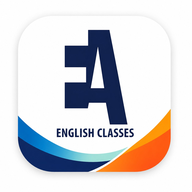
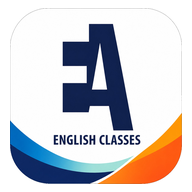
Add files via upload

diff --git a/app-fx.js b/app-fx.js
@@ -1,9 +1,8 @@
-/* EA English Classes — feedback de interação do app (som + vibração + toque) */
+/* EA English Classes — feedback de interação do app (som leve + vibração + toque) */
 (function () {
   'use strict';
 
-  // App/mobile apenas. No DESKTOP (navegador largo) o app-fx fica inerte:
-  // sem som, sem feedback de "press" — o site continua site.
+  // App/mobile apenas. No DESKTOP (navegador largo) fica inerte: sem som.
   var mq = window.matchMedia ? window.matchMedia.bind(window) : null;
   var isApp = (mq && (mq('(display-mode: standalone)').matches || mq('(max-width: 900px)').matches)) || window.navigator.standalone === true;
   if (!isApp) {
@@ -25,99 +24,89 @@
     return window._eaAudio;
   }
 
-  // Reverb curtinho e sutil (impulso sintético) — dá "ar" e qualidade às notas.
-  function reverb(c) {
-    if (c._eaVerb !== undefined) return c._eaVerb;
+  // Master leve e limpo — sem reverb nem compressor pesado.
+  function master(c) {
+    if (c._eaMaster) return c._eaMaster;
+    var g = c.createGain(); g.gain.value = 0.85; g.connect(c.destination);
+    c._eaMaster = g; return g;
+  }
+
+  // ── Amostra de clique (WAV enviado), decodificada uma vez ──
[1 lines of base64/hex data omitted]
+  function b64buf(b64) { var s = atob(b64), n = s.length, u = new Uint8Array(n); for (var i = 0; i < n; i++) u[i] = s.charCodeAt(i); return u.buffer; }
+  function ensureSample() {
+    var c = audio(); if (!c) return;
+    if (window._eaSample || window._eaSampleLoading) return;
+    window._eaSampleLoading = true;
     try {
-      var len = Math.floor(c.sampleRate * 0.5), ir = c.createBuffer(2, len, c.sampleRate);
-      for (var ch = 0; ch < 2; ch++) {
-        var d = ir.getChannelData(ch);
-        for (var i = 0; i < len; i++) d[i] = (Math.random() * 2 - 1) * Math.pow(1 - i / len, 3.2);
-      }
-      var conv = c.createConvolver(); conv.buffer = ir;
-      var wet = c.createGain(); wet.gain.value = 0.11;
-      conv.connect(wet);
-      c._eaVerb = { conv: conv, wet: wet };
-    } catch (e) { c._eaVerb = null; }
-    return c._eaVerb;
+      c.decodeAudioData(b64buf(CLICK_B64), function (buf) { window._eaSample = buf; window._eaSampleLoading = false; }, function () { window._eaSampleLoading = false; });
+    } catch (e) { window._eaSampleLoading = false; }
+  }
+  // Toca o clique com leve variação de tom/volume (cada interação um tom)
+  function playSample(rate, gain) {
+    var c = audio(); if (!c) return false;
+    if (!window._eaSample) { ensureSample(); return false; }
+    try {
+      var s = c.createBufferSource(); s.buffer = window._eaSample;
+      s.playbackRate.value = rate || 1;
+      var g = c.createGain(); g.gain.value = (gain == null ? 0.5 : gain);
+      s.connect(g); g.connect(master(c));
+      s.start(0);
+      return true;
+    } catch (e) { return false; }
   }
 
-  // Barramento master com leve compressão (cola/sem estouros) + envio ao reverb.
-  function bus(c) {
-    if (c._eaBus) return c._eaBus;
-    var master = c.createGain(); master.gain.value = 0.9;
-    var comp = c.createDynamicsCompressor();
-    try { comp.threshold.value = -22; comp.knee.value = 22; comp.ratio.value = 3; comp.attack.value = 0.003; comp.release.value = 0.18; } catch (e) {}
-    master.connect(comp); comp.connect(c.destination);
-    var v = reverb(c); if (v) { master.connect(v.conv); v.wet.connect(c.destination); }
-    c._eaBus = master; return master;
-  }
-
-  // Uma voz com envelope ADSR suave. glideTo (Hz) = deslize de pitch.
-  // rich=true acrescenta uma 2a oscilacao levemente desafinada (mais quente).
-  function voice(freq, start, dur, peak, type, glideTo, rich) {
+  // Tom sintético leve (uma senoide curta, sem camadas) — sucesso/erro/sino.
+  function tone(freq, start, dur, peak, glideTo) {
     var c = audio(); if (!c) return;
     try {
       var t = c.currentTime + (start || 0);
-      function osc(detCents, gainMul) {
-        var o = c.createOscillator(), g = c.createGain();
-        o.type = type || 'sine';
-        o.frequency.setValueAtTime(freq, t);
-        if (detCents) o.detune.setValueAtTime(detCents, t);
-        if (glideTo) o.frequency.exponentialRampToValueAtTime(glideTo, t + dur);
-        var p = (peak || 0.05) * gainMul;
-        g.gain.setValueAtTime(0.0001, t);
-        g.gain.exponentialRampToValueAtTime(p, t + 0.012);
-        g.gain.exponentialRampToValueAtTime(Math.max(0.0001, p * 0.55), t + dur * 0.55);
-        g.gain.exponentialRampToValueAtTime(0.0001, t + dur);
-        o.connect(g); g.connect(bus(c));
-        o.start(t); o.stop(t + dur + 0.05);
-      }
-      osc(0, 1);
-      if (rich) osc(-7, 0.55);
+      var o = c.createOscillator(), g = c.createGain();
+      o.type = 'sine'; o.frequency.setValueAtTime(freq, t);
+      if (glideTo) o.frequency.exponentialRampToValueAtTime(glideTo, t + dur);
+      var p = peak || 0.04;
+      g.gain.setValueAtTime(0.0001, t);
+      g.gain.exponentialRampToValueAtTime(p, t + 0.015);
+      g.gain.exponentialRampToValueAtTime(0.0001, t + dur);
+      o.connect(g); g.connect(master(c));
+      o.start(t); o.stop(t + dur + 0.04);
     } catch (e) {}
   }
-  function chord(freqs, start, dur, peak, type) { for (var i = 0; i < freqs.length; i++) voice(freqs[i], start, dur, peak * (i === 0 ? 1 : 0.7), type, null, true); }
+
   function haptic(p) { if (navigator.vibrate) { try { navigator.vibrate(p || 8); } catch (e) {} } }
-  function rnd(a, b) { return a + Math.random() * (b - a); }
+  // Reserva: clique sintético curtinho caso a amostra ainda não tenha decodificado.
+  function clickFallback(rate) { tone(900 * (rate || 1), 0, 0.03, 0.025); }
+  function click(rate, gain) { if (!playSample(rate, gain)) clickFallback(rate); }
 
   var EaFx = {
     active: true,
     haptic: haptic,
-    // Toque: nota curta arredondada e humanizada + brilho de oitava
-    tap: function () { if (!isMuted()) { var f = rnd(1015, 1075); voice(f, 0, 0.06, 0.030, 'sine'); voice(f * 2, 0, 0.045, 0.008, 'sine'); } haptic(6); },
-    // Pop: blip curtinho ascendente, para micro-acoes
-    pop: function () { if (!isMuted()) { var f = rnd(620, 690); voice(f, 0, 0.05, 0.030, 'sine', f * 1.28); } haptic(5); },
-    // Navegacao: dois toques claros subindo (E5 -> B5) com brilho
-    nav: function () { if (!isMuted()) { voice(659.3, 0, 0.07, 0.034, 'sine'); voice(1318.6, 0, 0.05, 0.009, 'sine'); voice(987.8, 0.052, 0.10, 0.026, 'sine', null, true); } haptic(9); },
-    // Abrir painel/menu: sopro curto subindo
-    open: function () { if (!isMuted()) voice(523.3, 0, 0.11, 0.024, 'sine', 784.0, true); haptic(6); },
-    // Fechar: descida curtinha
-    close: function () { if (!isMuted()) voice(659.3, 0, 0.09, 0.022, 'sine', 440.0); haptic(5); },
-    // Dispensar/marcar lida: "swish" gentil para baixo + tiquezinho
-    dismiss: function () { if (!isMuted()) { voice(880, 0, 0.085, 0.026, 'sine', 466.2); voice(rnd(300, 340), 0.03, 0.10, 0.016, 'sine'); } haptic([6, 18]); },
-    // Liga/desliga: nota quente (A5) com a 5a
-    toggle: function () { if (!isMuted()) chord([880, 1318.5], 0, 0.10, 0.028, 'sine'); haptic(10); },
-    // Sucesso: arpejo maior alegre (C5 E5 G5 C6) com brilho no topo
-    success: function () { if (!isMuted()) { voice(523.3, 0, 0.12, 0.044, 'sine'); voice(659.3, 0.085, 0.12, 0.044, 'sine'); voice(784.0, 0.17, 0.14, 0.040, 'sine'); voice(1046.5, 0.255, 0.24, 0.034, 'triangle', null, true); } haptic(16); },
-    // Erro: descida suave de duas notas, sem aspereza
-    error: function () { if (!isMuted()) { voice(415.3, 0, 0.14, 0.05, 'sine', 392.0); voice(311.1, 0.12, 0.20, 0.044, 'sine'); } haptic([16, 40, 16]); },
-    // Notificacao (sino): "ding-dong" cristalino e gentil com cauda
-    notify: function () { if (!isMuted()) { voice(1318.5, 0, 0.18, 0.05, 'sine'); voice(1976.0, 0, 0.14, 0.016, 'sine'); voice(987.8, 0.17, 0.55, 0.044, 'sine', null, true); } haptic([12, 30, 12]); }
+    tap:     function () { if (!isMuted()) click(1.00, 0.50); haptic(6); },
+    pop:     function () { if (!isMuted()) click(1.18, 0.42); haptic(5); },
+    nav:     function () { if (!isMuted()) click(1.07, 0.50); haptic(8); },
+    open:    function () { if (!isMuted()) click(1.12, 0.46); haptic(6); },
+    close:   function () { if (!isMuted()) click(0.90, 0.44); haptic(5); },
+    dismiss: function () { if (!isMuted()) click(0.82, 0.40); haptic([6, 16]); },
+    toggle:  function () { if (!isMuted()) click(1.00, 0.50); haptic(10); },
+    // Sucesso: duas notas suaves subindo (leve, sem brilho exagerado)
+    success: function () { if (!isMuted()) { tone(659.3, 0, 0.10, 0.035); tone(987.8, 0.09, 0.16, 0.030); } haptic(14); },
+    // Erro: duas notas suaves descendo
+    error:   function () { if (!isMuted()) { tone(440.0, 0, 0.12, 0.040, 392.0); tone(330.0, 0.10, 0.18, 0.034); } haptic([14, 34, 14]); },
+    // Notificação: "ding" curto e cristalino
+    notify:  function () { if (!isMuted()) { tone(1318.5, 0, 0.14, 0.040); tone(987.8, 0.13, 0.34, 0.030); } haptic([12, 28, 12]); }
   };
   window.eaFx = EaFx;
 
-  // Destrava o audio no primeiro gesto (mobile/iOS): cria, da resume e toca um
-  // buffer silencioso (so o resume nao basta no iOS). Continua tentando ate o
-  // contexto ficar "running"; depois remove os listeners.
+  // Destrava o áudio e pré-decodifica a amostra no primeiro gesto (mobile/iOS):
+  // cria, resume e toca um buffer silencioso; tenta em vários eventos até "running".
   function unlockAudio() {
     var c = audio(); if (!c) return;
     try {
       if (c.state === 'suspended') c.resume();
-      var b = c.createBuffer(1, 1, 22050);
-      var s = c.createBufferSource(); s.buffer = b;
-      s.connect(c.destination); s.start(0);
+      var b = c.createBuffer(1, 1, 22050), s = c.createBufferSource();
+      s.buffer = b; s.connect(c.destination); s.start(0);
     } catch (e) {}
+    ensureSample();
     if (c.state === 'running') removeUnlock();
   }
   var _uEv = ['touchend', 'pointerdown', 'mousedown', 'click', 'keydown'];
@@ -130,7 +119,7 @@
     }
   });
 
-  // Feedback ao tocar em elementos interativos (delegacao)
+  // Feedback ao tocar em elementos interativos (delegação)
   document.addEventListener('click', function (e) {
     var el = e.target.closest('button, a[href], .sb-link, [role="button"], [data-section], .tap-fx');
     if (!el) return;
@@ -139,8 +128,7 @@
     if (isNav) EaFx.nav(); else EaFx.tap();
   }, true);
 
-  // Som de sucesso/erro quando aparece um toast. O showToast pode ser definido
-  // depois deste script (ordem de carregamento), entao tentamos algumas vezes.
+  // Som de sucesso/erro quando aparece um toast (tolerante à ordem de carregamento)
   function wrapToast() {
     if (window._eaToastWrapped) return true;
     if (typeof window.showToast !== 'function') return false;
@@ -153,9 +141,7 @@
     return true;
   }
   if (!wrapToast()) {
-    var _tw = 0, _twId = setInterval(function () {
-      if (wrapToast() || ++_tw > 40) clearInterval(_twId);
-    }, 150);
+    var _tw = 0, _twId = setInterval(function () { if (wrapToast() || ++_tw > 40) clearInterval(_twId); }, 150);
   }
 
   // Estilo de "press" (escala sutil ao tocar)
@@ -168,9 +154,9 @@
     (document.head || document.documentElement).appendChild(st);
   }
 
-  // Helper publico para o controle de som da aba "Meu Perfil"
+  // Controle de som da aba "Meu Perfil"
   window.eaSound = {
     isOn: function () { return !isMuted(); },
-    set: function (on) { setMuted(!on); if (on) { try { EaFx.toggle(); } catch (e) {} } else { haptic(12); } }
+    set: function (on) { setMuted(!on); if (on) { try { EaFx.tap(); } catch (e) {} } else { haptic(12); } }
   };
 })();

diff --git a/sw.js b/sw.js
@@ -4,7 +4,7 @@
    - Supabase/API/CDNs (cross-origin) e POST/PUT passam direto (dados e auth sempre ao vivo).
    - Páginas autenticadas (dashboards/login) nunca são armazenadas em cache.
 */
-const VERSION = 'ea-v4';
+const VERSION = 'ea-v5';
 const CACHE = 'ea-shell-' + VERSION;
 const PRECACHE = [
   '/offline.html',